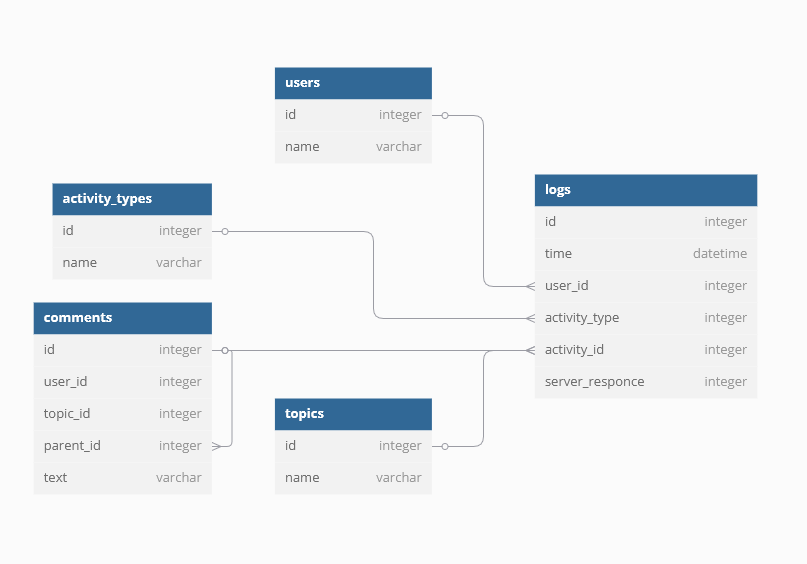
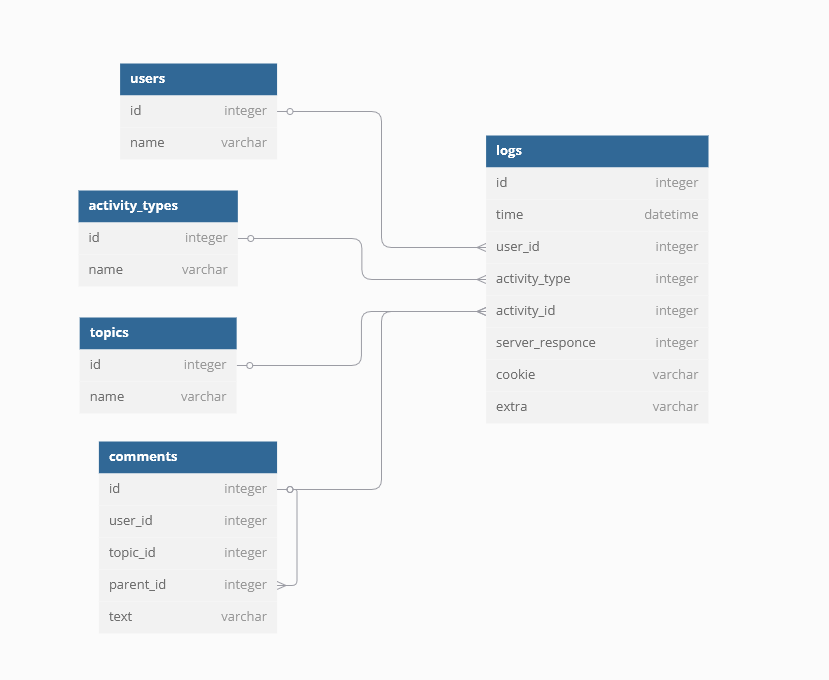
added db generation plus some changes

diff --git a/db-generate-data.py b/db-generate-data.py
@@ -1,0 +1,272 @@
+import random
+from datetime import datetime, timedelta
+import psycopg2
+from faker import Faker
+
+class DataGenerator:
+    def __init__(self):
+        self.conn = psycopg2.connect(
+            dbname="forum",
+            user="postgres",
+            password="postgres",
+            host="postgres",
+            port="5432"
+        )
+        self.cur = self.conn.cursor()
+
+        self.fake = Faker()
+        # Константы для генерации
+        self.MIN_ACTIONS_PER_TYPE = 5
+        self.ANONYMOUS_COMMENT_RATIO = 0.5
+        self.MIN_LOGIN_ERRORS = 2
+        self.DAYS = 30
+        
+        # Типы активности
+        self.ACTIVITY_TYPES = {
+            'first_visit': 1,
+            'registration': 2,
+            'login': 3,
+            'logout': 4,
+            'create_topic': 5,
+            'view_topic': 6,
+            'delete_topic': 7,
+            'create_comment': 8
+        }
+
+    def generate_cookie(self):
+            return ''.join(random.choices('0123456789abcdef', k=32))
+
+    def generate_users(self, count=1):
+        user_ids = []
+        for _ in range(count):
+            self.cur.execute(
+                "INSERT INTO users (name) VALUES (%s) RETURNING id",
+                (self.fake.name(),)
+            )
+            user_ids.append(self.cur.fetchone()[0])
+        self.conn.commit()
+        return user_ids
+
+    def generate_topics(self, user_id, count=1):
+        topic_ids = []
+        for _ in range(count):
+            self.cur.execute(
+                "INSERT INTO topics (name, user_id) VALUES (%s, %s) RETURNING id",
+                (self.fake.sentence(nb_words=3), user_id)
+            )
+            topic_ids.append(self.cur.fetchone()[0])
+        self.conn.commit()
+        return topic_ids
+    
+    def generate_time(self, base_time, hour_shift=0, min_minutes=1, max_minutes=5):
+            # Генерируем новое время с учетом ограничений текущего дня
+            new_time = base_time + timedelta(
+                hours=hour_shift,
+                minutes=random.randint(min_minutes, max_minutes),
+                seconds=random.randint(0, 59)
+            )
+            
+            # Проверяем, не вышли ли за пределы текущего дня
+            end_of_day = base_time.replace(hour=23, minute=59, second=59)
+            return min(new_time, end_of_day)
+    
+    def generate_first_visit(self, date):
+            # Первый визит происходит в первые 12 часов дня
+            time = self.generate_time(date, hour_shift=random.randint(0, 12))
+            
+            # Генерируем cookie для нового пользователя
+            cookie = self.generate_cookie()
+            
+            # Первый заход
+            self.cur.execute("""
+                INSERT INTO logs (time, user_id, activity_type, activity_id, server_response, cookie)
+                VALUES (%s, %s, %s, %s, %s, %s)
+            """, (time, None, self.ACTIVITY_TYPES['first_visit'], None, 200, cookie))
+
+            return cookie, time
+
+    def generate_daily_logs(self, date, user_ids, topic_ids, comment_ids, user_cookies, logged_users):
+        # Словарь для хранения времени последнего действия пользователя
+        user_last_action = {user_id: date for user_id in user_ids}
+        last_anonymous_time = date  # Для отслеживания времени анонимных пользователей
+        
+        # 1. Первый заход и регистрация (для новых пользователей)
+        new_users_count = random.randint(self.MIN_ACTIONS_PER_TYPE, self.MIN_ACTIONS_PER_TYPE + 10)
+        for _ in range(new_users_count):
+            cookie, time_reg = self.generate_first_visit(date)
+            # Регистрация происходит через 2-5 минут после первого захода
+            registration_time = self.generate_time(time_reg, min_minutes=2, max_minutes=5)
+            
+            # Регистрация (используем тот же cookie)
+            last_user_id = self.generate_users()[0]
+            user_cookies[last_user_id] = cookie
+            user_ids.append(last_user_id)
+            self.cur.execute("""
+                INSERT INTO logs (time, user_id, activity_type, activity_id, server_response, cookie)
+                VALUES (%s, %s, %s, %s, %s, %s)
+            """, (registration_time, last_user_id, self.ACTIVITY_TYPES['registration'], None, 200, cookie))
+            
+            user_last_action[last_user_id] = registration_time
+
+        # 2. Логин
+        login_count = random.randint(self.MIN_ACTIONS_PER_TYPE, self.MIN_ACTIONS_PER_TYPE + 8)
+        available_for_login = list(set(user_ids) - set(logged_users))
+        if login_count > len(available_for_login):
+            login_count = len(available_for_login)
+        for _ in range(login_count):
+            user_id = random.choice(available_for_login)
+            available_for_login.remove(user_id)
+            # Логин происходит через 2-10 минут после последнего действия
+            login_time = self.generate_time(user_last_action[user_id], hour_shift=random.randint(5, 10), min_minutes=2, max_minutes=10)
+            
+            # Получаем существующий cookie или генерируем новый
+            if user_id not in user_cookies:
+                user_cookies[user_id] = self.generate_cookie()
+            cookie = user_cookies[user_id]
+            
+            # Логин
+            self.cur.execute("""
+                INSERT INTO logs (time, user_id, activity_type, activity_id, server_response, cookie)
+                VALUES (%s, %s, %s, %s, %s, %s)
+            """, (login_time, user_id, self.ACTIVITY_TYPES['login'], None, 200, cookie))
+            user_last_action[user_id] = login_time
+            logged_users.append(user_id)
+
+        # 3. Создание тем
+        for _ in range(self.MIN_LOGIN_ERRORS):
+            available_users = list(set(user_ids) - set(logged_users))
+            if available_users:
+                user_id = random.choice(available_users)
+                time = self.generate_time(user_last_action[user_id], min_minutes=5, max_minutes=15)
+                cookie = self.generate_cookie()
+                self.cur.execute("""
+                    INSERT INTO logs (time, user_id, activity_type, activity_id, server_response, cookie)
+                    VALUES (%s, %s, %s, %s, %s, %s)
+                """, (time, user_id, self.ACTIVITY_TYPES['create_topic'], None, 403, cookie))
+            else:
+                cookie, time = self.generate_first_visit(date)
+                self.cur.execute("""
+                    INSERT INTO logs (time, user_id, activity_type, activity_id, server_response, cookie)
+                    VALUES (%s, %s, %s, %s, %s, %s)
+                """, (time, None, self.ACTIVITY_TYPES['create_topic'], None, 403, cookie))
+
+        topic_create_count = random.randint(self.MIN_ACTIONS_PER_TYPE+2, self.MIN_ACTIONS_PER_TYPE+12)
+        for _ in range(topic_create_count):
+            user_id = random.choice(logged_users)
+            time = self.generate_time(user_last_action[user_id], hour_shift=random.randint(0, 3), min_minutes=5, max_minutes=15)
+            cookie = user_cookies[user_id]
+            topic_id = self.generate_topics(user_id)[0]
+            self.cur.execute("""
+                INSERT INTO logs (time, user_id, activity_type, activity_id, server_response, cookie)
+                VALUES (%s, %s, %s, %s, %s, %s)
+            """, (time, user_id, self.ACTIVITY_TYPES['create_topic'], topic_id, 200, cookie))
+            user_last_action[user_id] = time
+            topic_ids.append(topic_id)
+
+        # 4. Просмотр тем и создание комментариев
+        view_and_comment_count = random.randint(self.MIN_ACTIONS_PER_TYPE, self.MIN_ACTIONS_PER_TYPE + 10)
+        for i in range(view_and_comment_count):
+            is_anonymous = random.random() > self.ANONYMOUS_COMMENT_RATIO
+            user_id = None if is_anonymous else random.choice(logged_users)
+            
+            # Просмотры темы
+            topic_id = random.choice(topic_ids)
+            if user_id:
+                time = self.generate_time(user_last_action[user_id], hour_shift=random.randint(0, 3), min_minutes=3, max_minutes=10)
+                cookie = user_cookies[user_id]
+            else:
+                time = self.generate_time(last_anonymous_time, hour_shift=random.randint(0, 3), min_minutes=1, max_minutes=5)
+                cookie = self.generate_cookie()
+                last_anonymous_time = time
+            
+            self.cur.execute("""
+                INSERT INTO logs (time, user_id, activity_type, activity_id, server_response, cookie)
+                VALUES (%s, %s, %s, %s, %s, %s)
+            """, (time, user_id, self.ACTIVITY_TYPES['view_topic'], topic_id, 200, cookie))               
+            if user_id:
+                user_last_action[user_id] = time
+
+            # Комментарии создаются через 2-7 минут после просмотра
+            comment_time = self.generate_time(time, min_minutes=10, max_minutes=20)
+            comment_text = self.fake.text(max_nb_chars=200)
+
+            if random.random() < 0.5 or topic_id not in comment_ids:
+                self.cur.execute("""
+                    INSERT INTO comments (user_id, topic_id, text)
+                    VALUES (%s, %s, %s)
+                    RETURNING id
+                 """, (user_id, topic_id, comment_text))
+                comment_ids[topic_id] = [self.cur.fetchone()[0]]
+                extra = 'topic'
+                self.cur.execute("""
+                    INSERT INTO logs (time, user_id, activity_type, activity_id, server_response, cookie, extra)
+                    VALUES (%s, %s, %s, %s, %s, %s, %s)
+                """, (comment_time, user_id, self.ACTIVITY_TYPES['create_comment'], topic_id, 200, cookie, extra))
+            else:
+                comment_id = random.choice(comment_ids[topic_id])
+                self.cur.execute("""
+                    INSERT INTO comments (user_id, topic_id, parent_id, text)
+                    VALUES (%s, %s, %s, %s) 
+                    RETURNING id
+                """, (user_id, topic_id, comment_id, comment_text))
+                comment_ids[topic_id].append(self.cur.fetchone()[0])
+                extra = 'comment'
+                self.cur.execute("""
+                    INSERT INTO logs (time, user_id, activity_type, activity_id, server_response, cookie, extra)
+                    VALUES (%s, %s, %s, %s, %s, %s, %s)
+                """, (comment_time, user_id, self.ACTIVITY_TYPES['create_comment'], comment_id, 200, cookie, extra))
+            if user_id:
+                user_last_action[user_id] = comment_time
+
+        # 5. Удаление тем
+        delete_topic_count = random.randint(self.MIN_ACTIONS_PER_TYPE, self.MIN_ACTIONS_PER_TYPE + 2)
+        for _ in range(delete_topic_count):
+            user_id = random.choice(logged_users)
+            time = self.generate_time(user_last_action[user_id], min_minutes=5, max_minutes=15)
+            cookie = user_cookies[user_id]
+            topic_id = random.choice(topic_ids)
+            self.cur.execute("""
+                INSERT INTO logs (time, user_id, activity_type, activity_id, server_response, cookie)
+                VALUES (%s, %s, %s, %s, %s, %s)
+            """, (time, user_id, self.ACTIVITY_TYPES['delete_topic'], topic_id, 200, cookie))
+            user_last_action[user_id] = time
+            topic_ids.remove(topic_id)
+
+        # 6. Выход
+        logout_count = random.randint(self.MIN_ACTIONS_PER_TYPE, self.MIN_ACTIONS_PER_TYPE + 2)
+        for _ in range(logout_count):
+            user_id = random.choice(logged_users)
+            time = user_last_action[user_id] + timedelta(minutes=random.randint(5, 10))
+            self.cur.execute("""
+                INSERT INTO logs (time, user_id, activity_type, activity_id, server_response, cookie)
+                VALUES (%s, %s, %s, %s, %s, %s)
+            """, (time, user_id, self.ACTIVITY_TYPES['logout'], None, 200, cookie))
+            user_last_action[user_id] = time
+            logged_users.remove(user_id)
+        
+        self.conn.commit()
+
+    def generate_month_data(self, year, month):
+        user_ids = []
+        topic_ids = []
+        user_cookies = {}
+        comment_ids = {}
+        logged_users = []
+
+        # Генерируем данные за каждый день
+        start_date = datetime(year, month, 1)
+        for day in range(self.DAYS):
+            current_date = start_date + timedelta(days=day)
+            self.generate_daily_logs(current_date, user_ids, topic_ids, comment_ids, user_cookies, logged_users)
+
+    def cleanup(self):
+        self.cur.close()
+        self.conn.close()
+
+if __name__ == "__main__":
+    generator = DataGenerator()
+    try:
+        generator.generate_month_data(2025, 1)
+        print("Данные успешно сгенерированы")
+    finally:
+        generator.cleanup()
